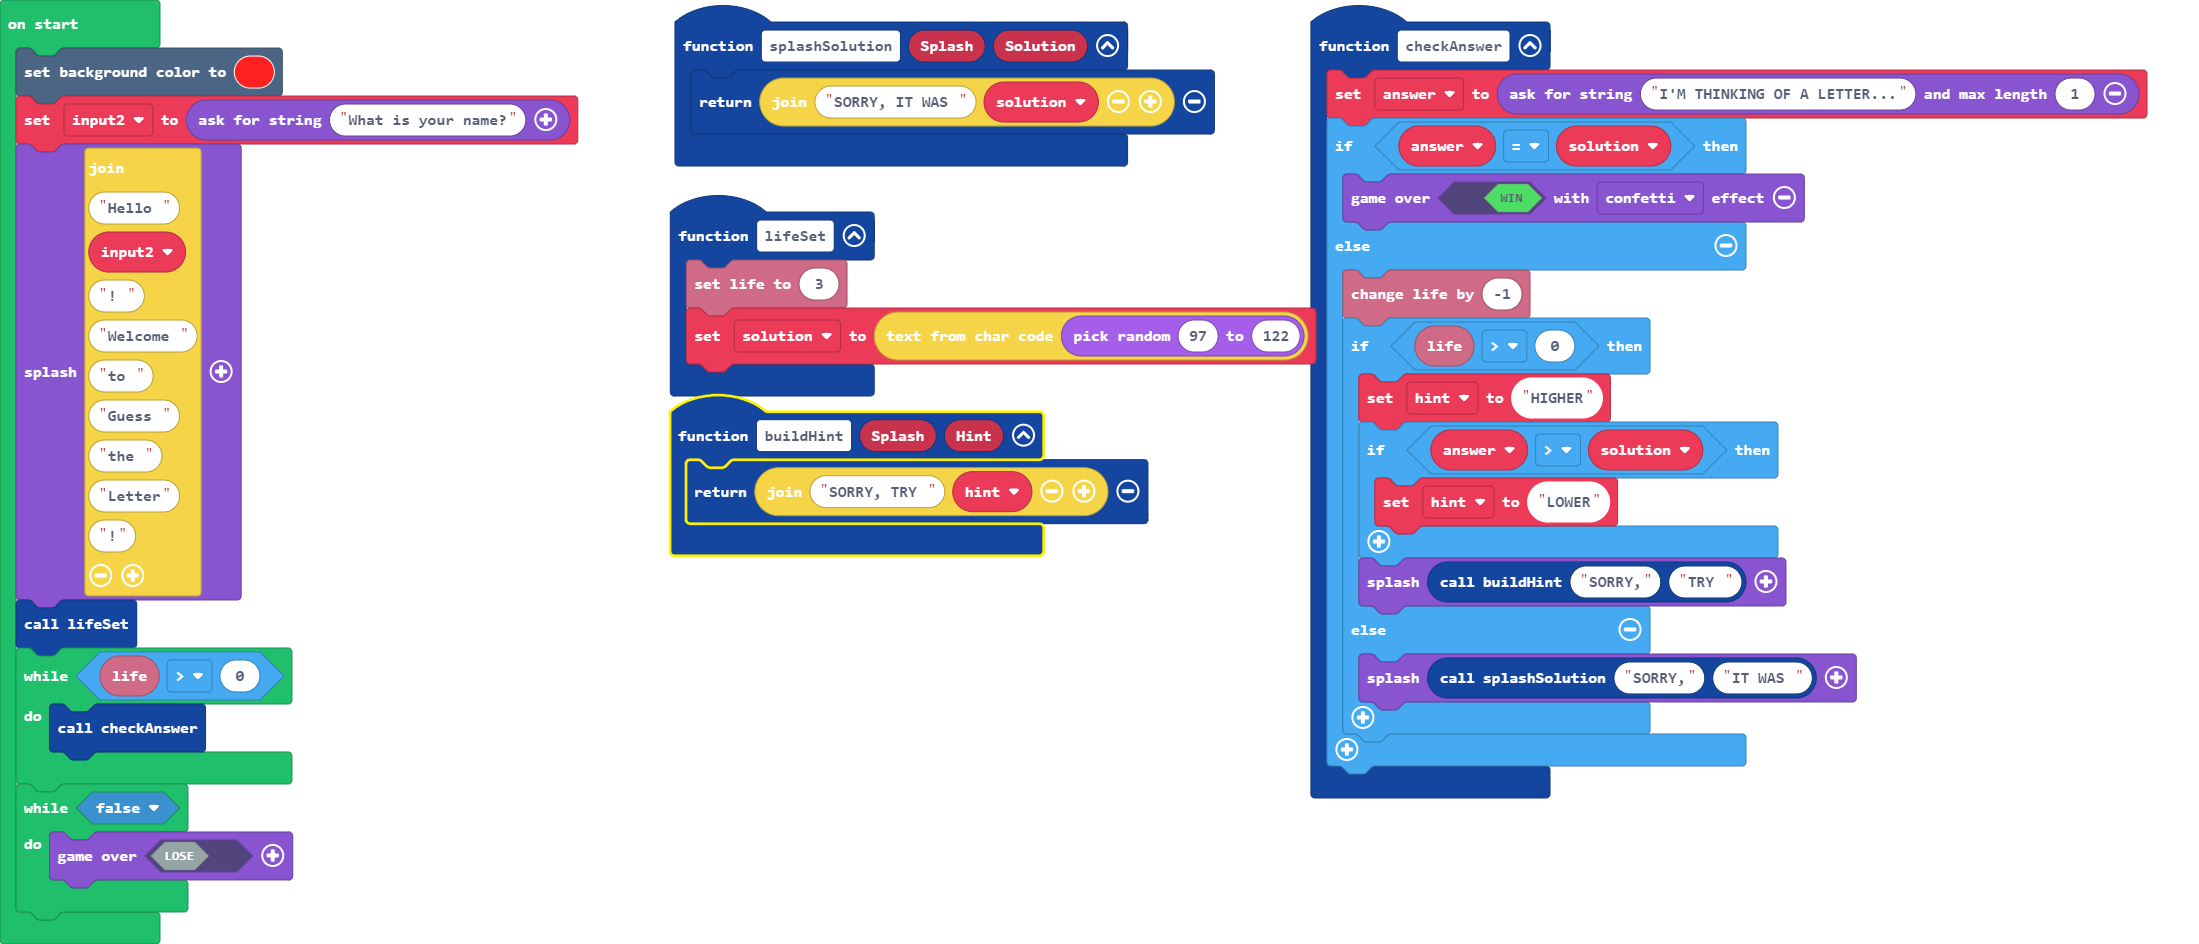
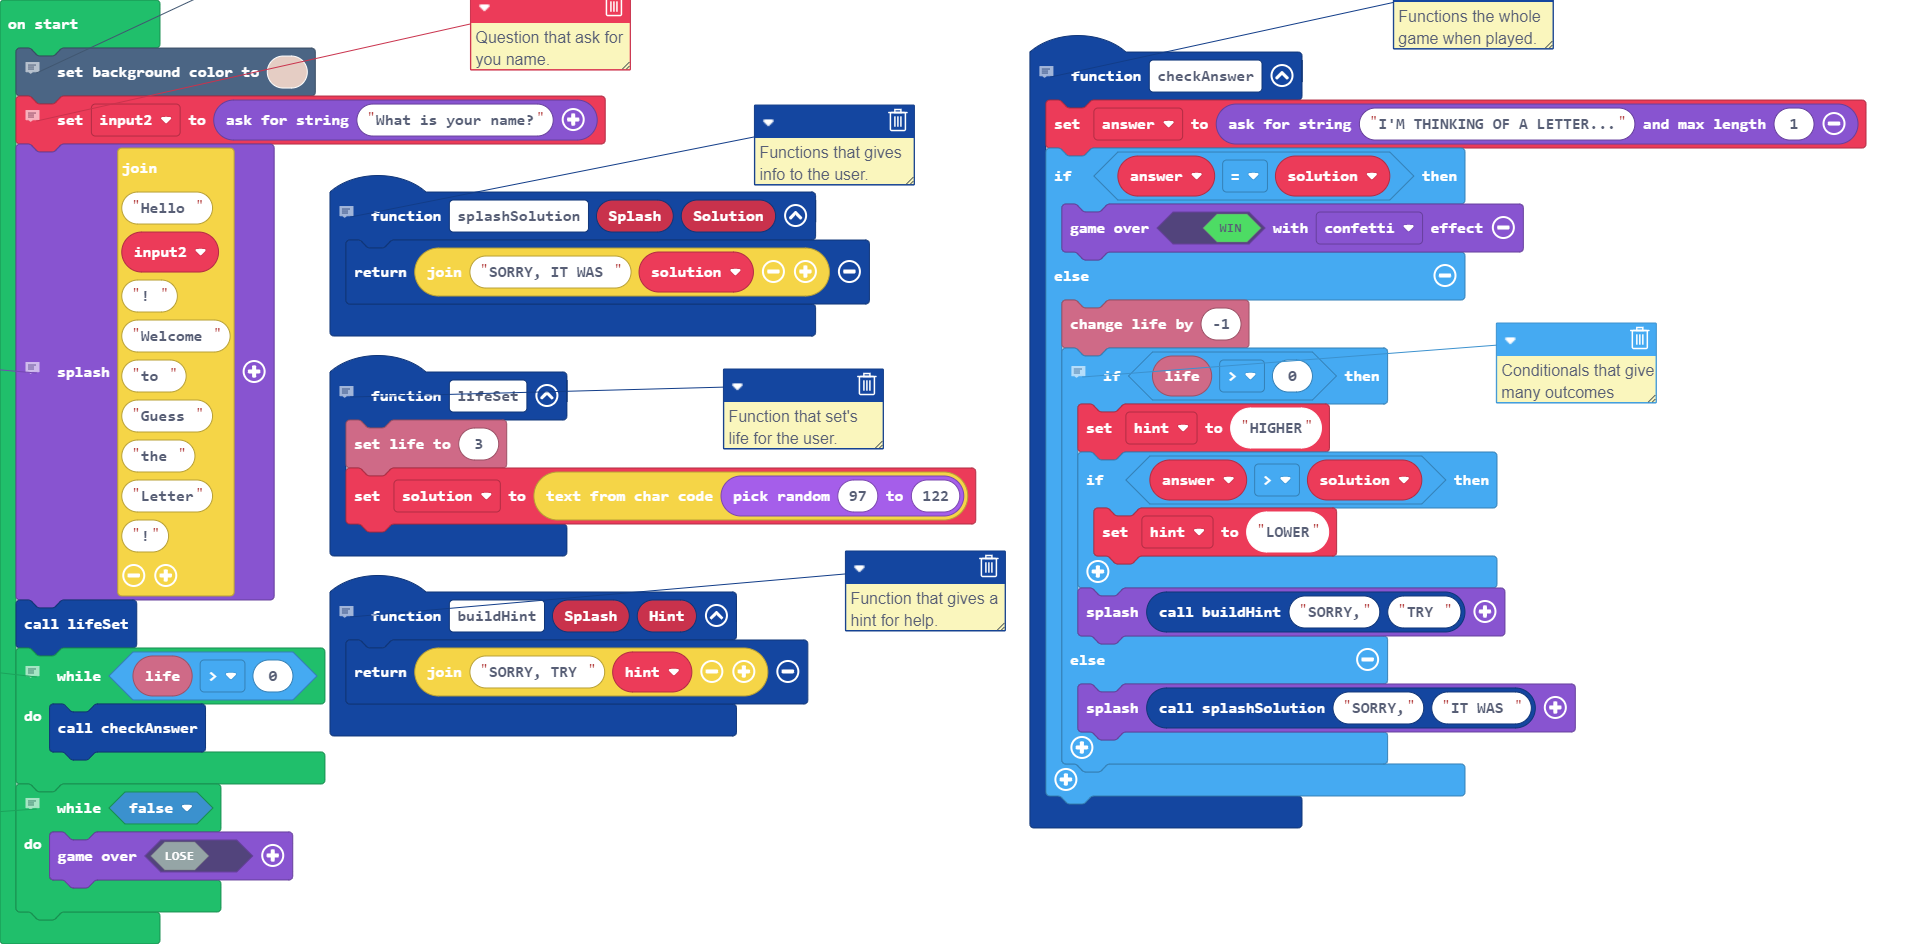
Added extension

diff --git a/main.ts b/main.ts
@@ -1,12 +1,15 @@
+// Functions that gives info to the user.
 function splashSolution (Splash: string, Solution: string) {
     return "SORRY, IT WAS " + solution
 }
+// Functions the whole game when played.
 function checkAnswer () {
     answer = game.askForString("I'M THINKING OF A LETTER...", 1)
     if (answer == solution) {
         game.over(true, effects.confetti)
     } else {
         info.changeLifeBy(-1)
+        // Conditionals that give many outcomes
         if (info.life() > 0) {
             hint = "HIGHER"
             if (answer > solution) {
@@ -18,9 +21,11 @@ function checkAnswer () {
         }
     }
 }
+// Function that gives a hint for help.
 function buildHint (Splash: string, Hint: string) {
     return "SORRY, TRY " + hint
 }
+// Function that set's life for the user.
 function lifeSet () {
     info.setLife(3)
     solution = String.fromCharCode(randint(97, 122))
@@ -28,13 +33,19 @@ function lifeSet () {
 let hint = ""
 let answer = ""
 let solution = ""
-scene.setBackgroundColor(2)
+// Sets a good scenery instead of dull one
+scene.setBackgroundColor(13)
+// Question that ask for you name.
 let input2 = game.askForString("What is your name?")
+// Gives the user a welcoming.
 game.splash("Hello " + input2 + "! " + "Welcome " + "to " + "Guess " + "the " + "Letter" + "!")
 lifeSet()
+// Continues the game based on lives.
 while (info.life() > 0) {
     checkAnswer()
 }
+// Block identify if you have 0 lives
+// 
 while (false) {
     game.over(false)
 }
